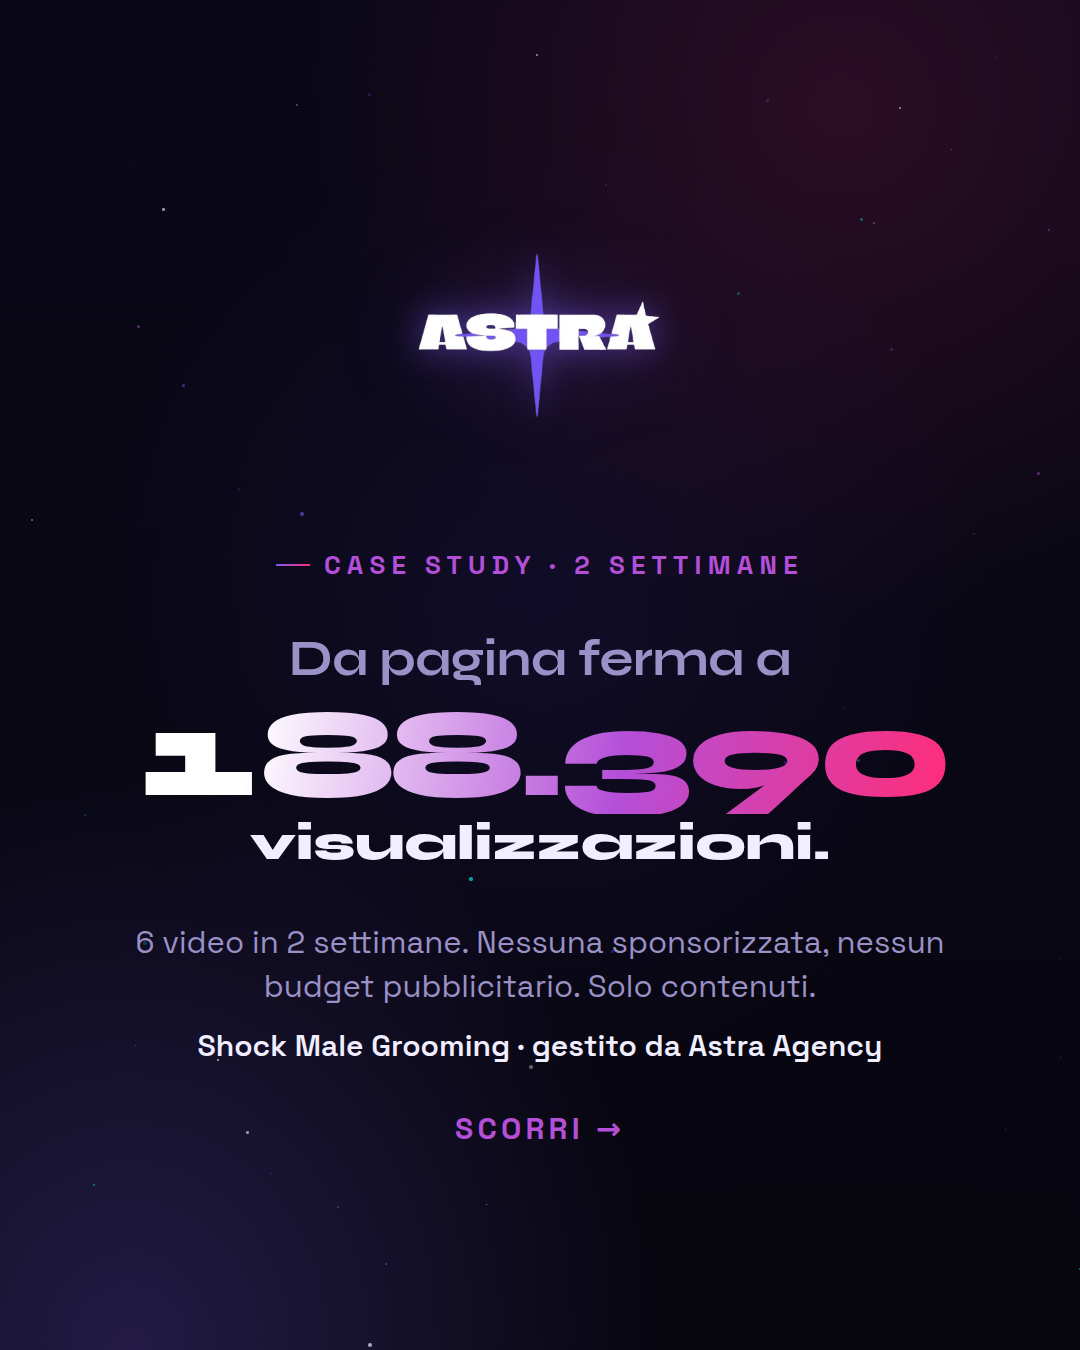
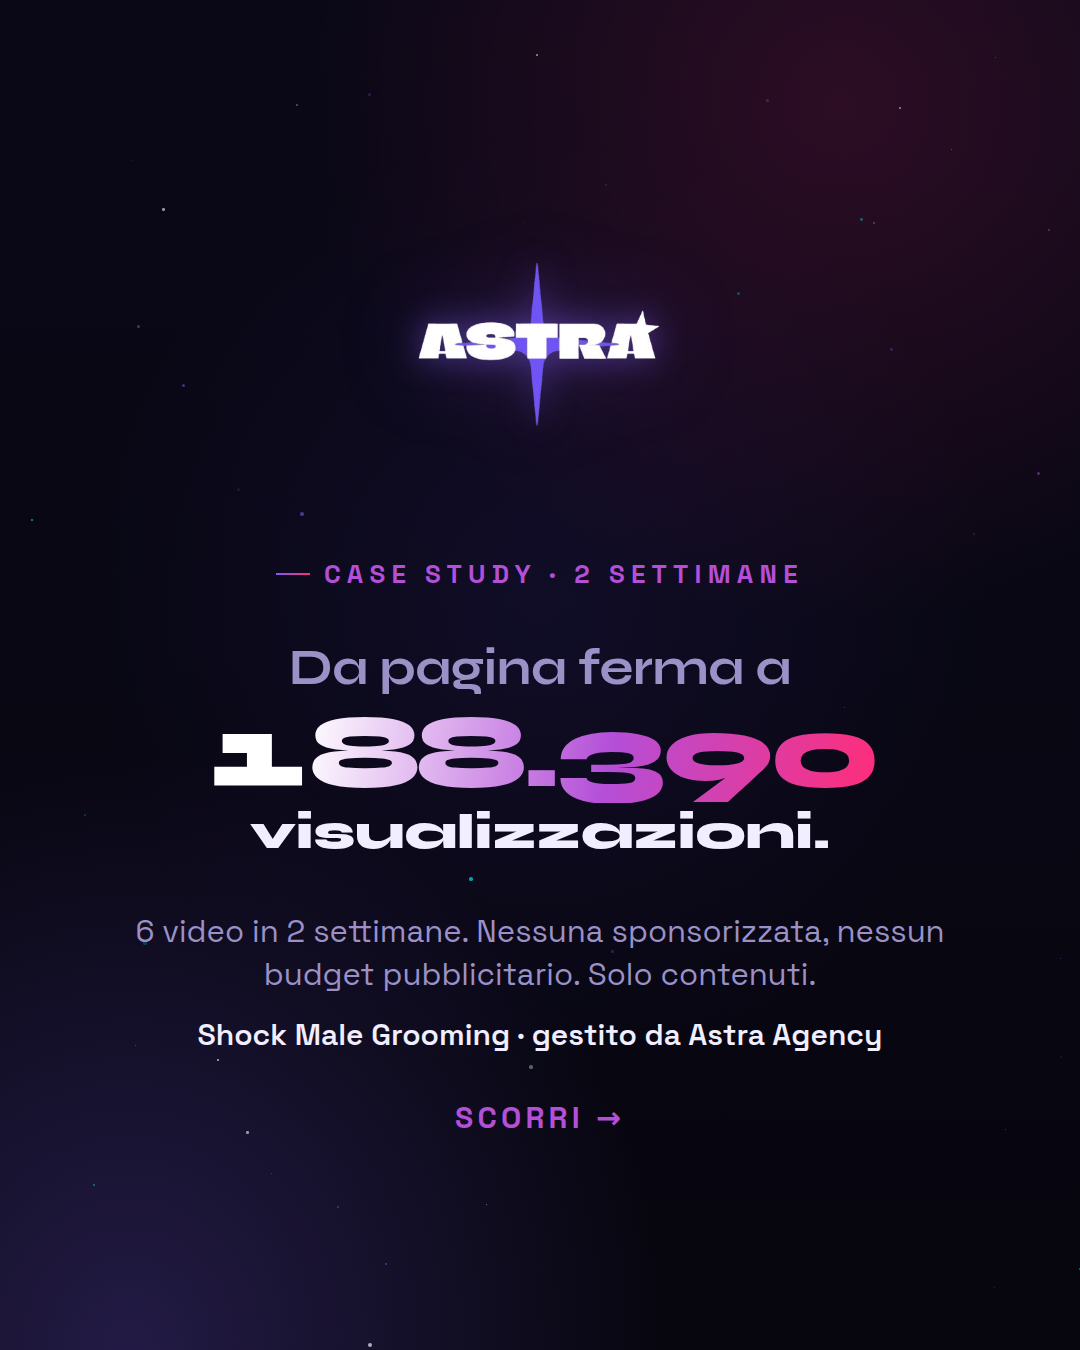
Carosello Shock: piu margini/respiro dai bordi, numeri ridimensionati

diff --git a/report-shock/index.html b/report-shock/index.html
@@ -97,7 +97,7 @@ E se la tua pagina fosse attiva? Scrivici in DM o su astragency.it ✦
 
 <script>
   const NUM = 7;
-  const V = '?v=10';   // cache-busting: bump ad ogni aggiornamento delle slide
+  const V = '?v=11';   // cache-busting: bump ad ogni aggiornamento delle slide
   const titoli = ['Cover','Punto di partenza','Il reel','Classifica video','Totale','Perché','CTA'];
   const grid = document.getElementById('grid');
   for (let i = 1; i <= NUM; i++) {
